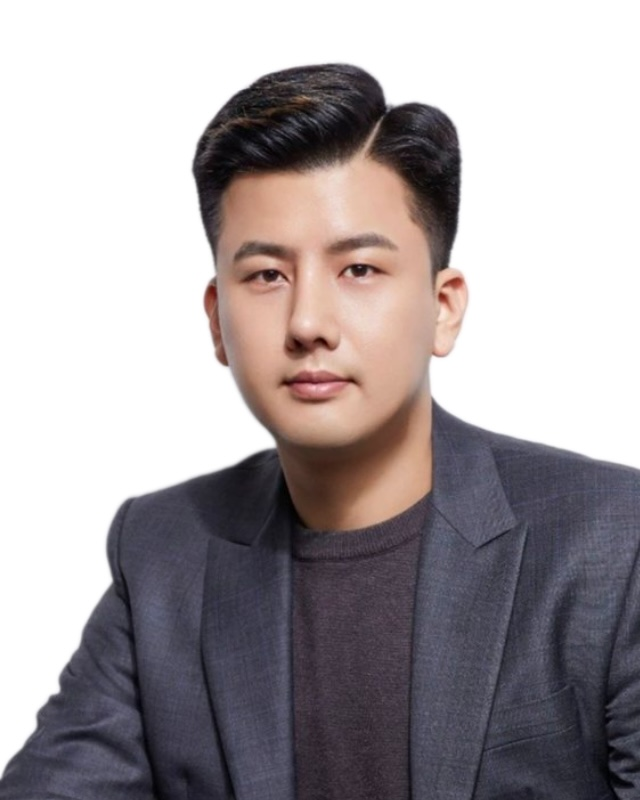
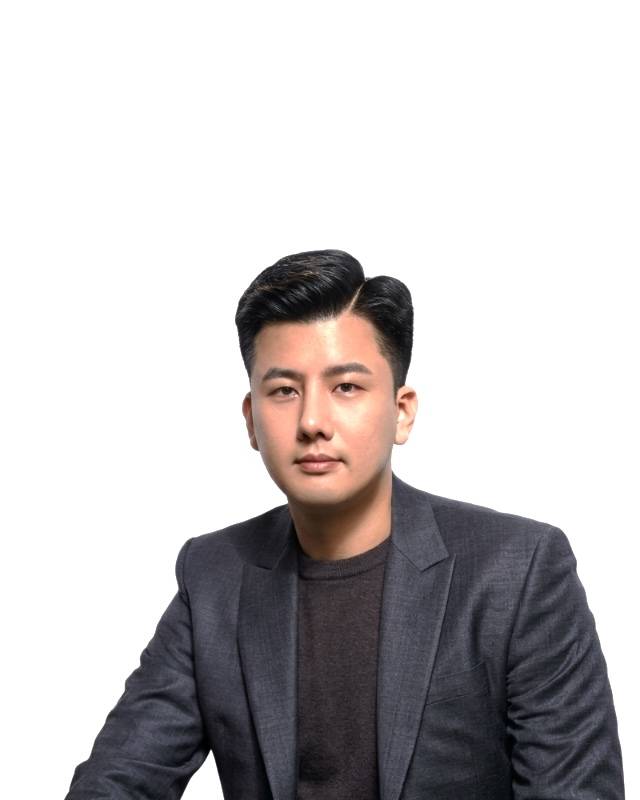
강사 사진 전체 작게(그리드 폭 축소), 탐구 통합사회 먼저(이예섭·정지만·김현중·임현철), 류성훈·장의순·최현재 사진 축소

diff --git a/index.html b/index.html
@@ -276,7 +276,7 @@ section.v2-sec.gray{background:#F4F4F2;padding:120px 0}
 .v2-three span{font-family:"Noto Serif KR",serif;font-size:15px;color:#6A6D72}
 .v2-three h3{margin:0;font-size:22px;font-weight:600;letter-spacing:-.02em;line-height:1.4}
 .v2-three p{margin:0;color:#45484D;font-size:15px}
-.v2-fac{display:grid;grid-template-columns:repeat(auto-fill,minmax(240px,1fr));gap:40px 24px}
+.v2-fac{display:grid;grid-template-columns:repeat(auto-fill,minmax(200px,1fr));gap:36px 22px;max-width:1040px;margin-left:auto;margin-right:auto}
 .v2-fac article{display:flex;flex-direction:column;gap:18px}
 .v2-fac .ph{width:100%;aspect-ratio:4/5;object-fit:cover;object-position:center top;background:#EDEDEB;display:flex;align-items:center;justify-content:center;font-family:"Noto Serif KR",serif;font-size:56px;color:#C9C9C4}
 .v2-fac .sj{font-size:13px;letter-spacing:.08em;color:#6A6D72}
@@ -662,12 +662,12 @@ const T=[
 ];
 const list=document.getElementById('tlist');
 /* 사진: img/teachers/이름.jpg 를 PHOTO 에 적으면 사진, 없으면 성 한 글자 */
-const PHOTO={};['류성훈','이태형','장의순','김호랑','고연승','신연우','권현석','정민','홍진수','최정윤','이예섭','정지만','김현중','이창환','최현재','김경한','문지현','박정은','박남진','최한근','안민형','강윤구'].forEach(n=>PHOTO[n]='img/teachers/'+n+'.jpg?v=1126c');
+const PHOTO={};['류성훈','이태형','장의순','김호랑','고연승','신연우','권현석','정민','홍진수','최정윤','이예섭','정지만','김현중','이창환','최현재','김경한','문지현','박정은','박남진','최한근','안민형','강윤구'].forEach(n=>PHOTO[n]='img/teachers/'+n+'.jpg?v=1126d');
 /* 줄 순서: 1줄 국어 · 2줄 수학 · 3줄 영어 · 4줄 탐구 · 논술 (11/19 사장님 요청)
    같은 과목 안에서는 (탐구는 통합과학·통합사회·사탐 순으로 묶고) 사진 있는 강사 먼저, 나머지는 배열 순서 그대로 */
 const SUBJ=['국어','수학','영어','탐구','논술'];
-const TT=['통합과학','통합사회','사탐']; /* 탐구 안 순서 */
-const ord=t=>{const k=TT.indexOf(t.t);return SUBJ.indexOf(t.s)*1000+(t.s==='탐구'?(k<0?3:k)*100:0)+(PHOTO[t.n]?0:50)+T.indexOf(t);};
+const TT=['통합사회','통합과학']; /* 탐구 안 순서: 통합사회 먼저 (11/26 요청) */
+const ord=t=>{let k=TT.findIndex(x=>(t.t||'').includes(x));return SUBJ.indexOf(t.s)*1000+(t.s==='탐구'?(k<0?3:k)*100:0)+(PHOTO[t.n]?0:50)+T.indexOf(t);};
 const ORD=new Map(T.map(t=>[t,ord(t)])); T.sort((a,b)=>ORD.get(a)-ORD.get(b));
 let tOpen=false;
 function drawT(f){
